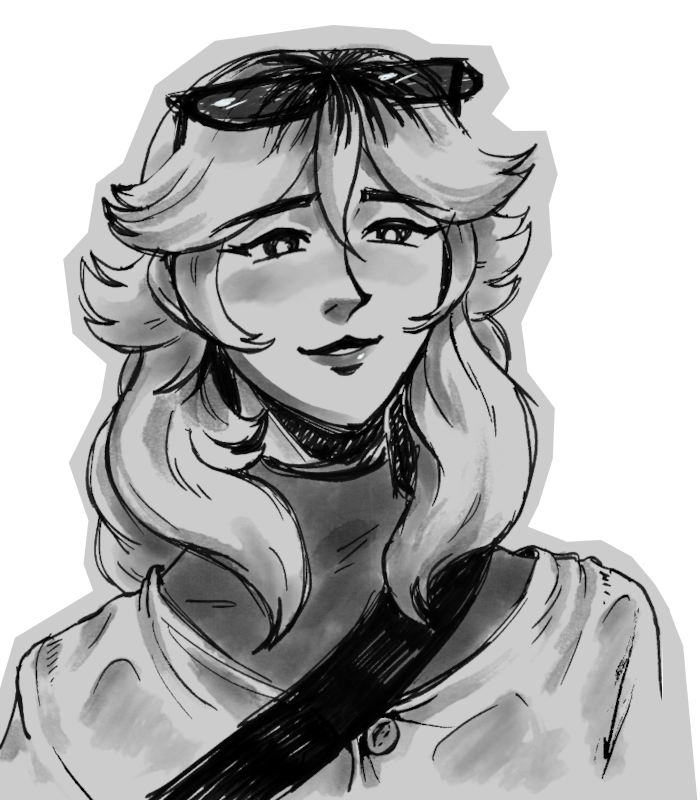
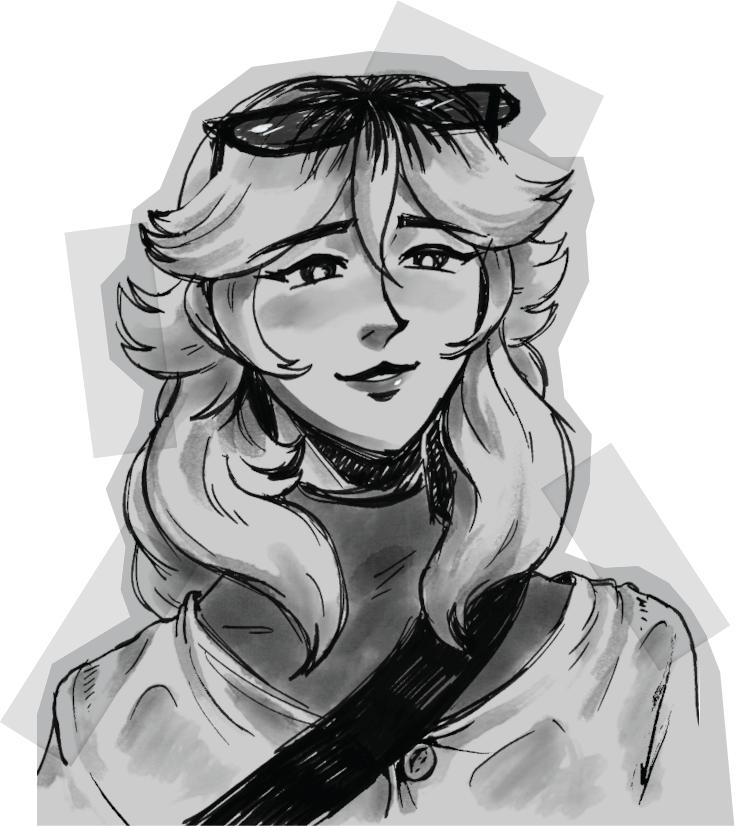
Update Hisae sprite and README

diff --git a/README.md b/README.md
@@ -9,6 +9,6 @@ Kanade Sato is a [age omitted for her pride] graduate from a prestigious law sch
 ## Screenshots
 
 ![Scene: a black and white bedroom. Text: You open your journal. It's a combination bullet journal, planner, orgaziner, keeper of all secrets and crimes. It's easier to orgazine this way. It's practical.](info/peremelo_screenshot_01.png)
-![Scene: a black and white bedroom. Text: It was a spur of the moment purchase. You saw it for sale during a weekend outing.](info/peremelo_screenshot_02.png)
+![Scene: a portrait of a woman in a black and white bedroom. Text: Aren't we going to be rockstars, Kana-chan? Live a little.](info/peremelo_screenshot_05-1.png)
 ![Scene: a monochrome cafe exterior. Text: Her gaze lingers, and there's something there. In the stillness of a sacred lake, there is a ripple. She takes your hand. She squeezes.](info/peremelo_screenshot_03.png)
 ![Journal menu featuring to do list and photos of objects interacted with](info/peremelo_screenshot_04.png)
